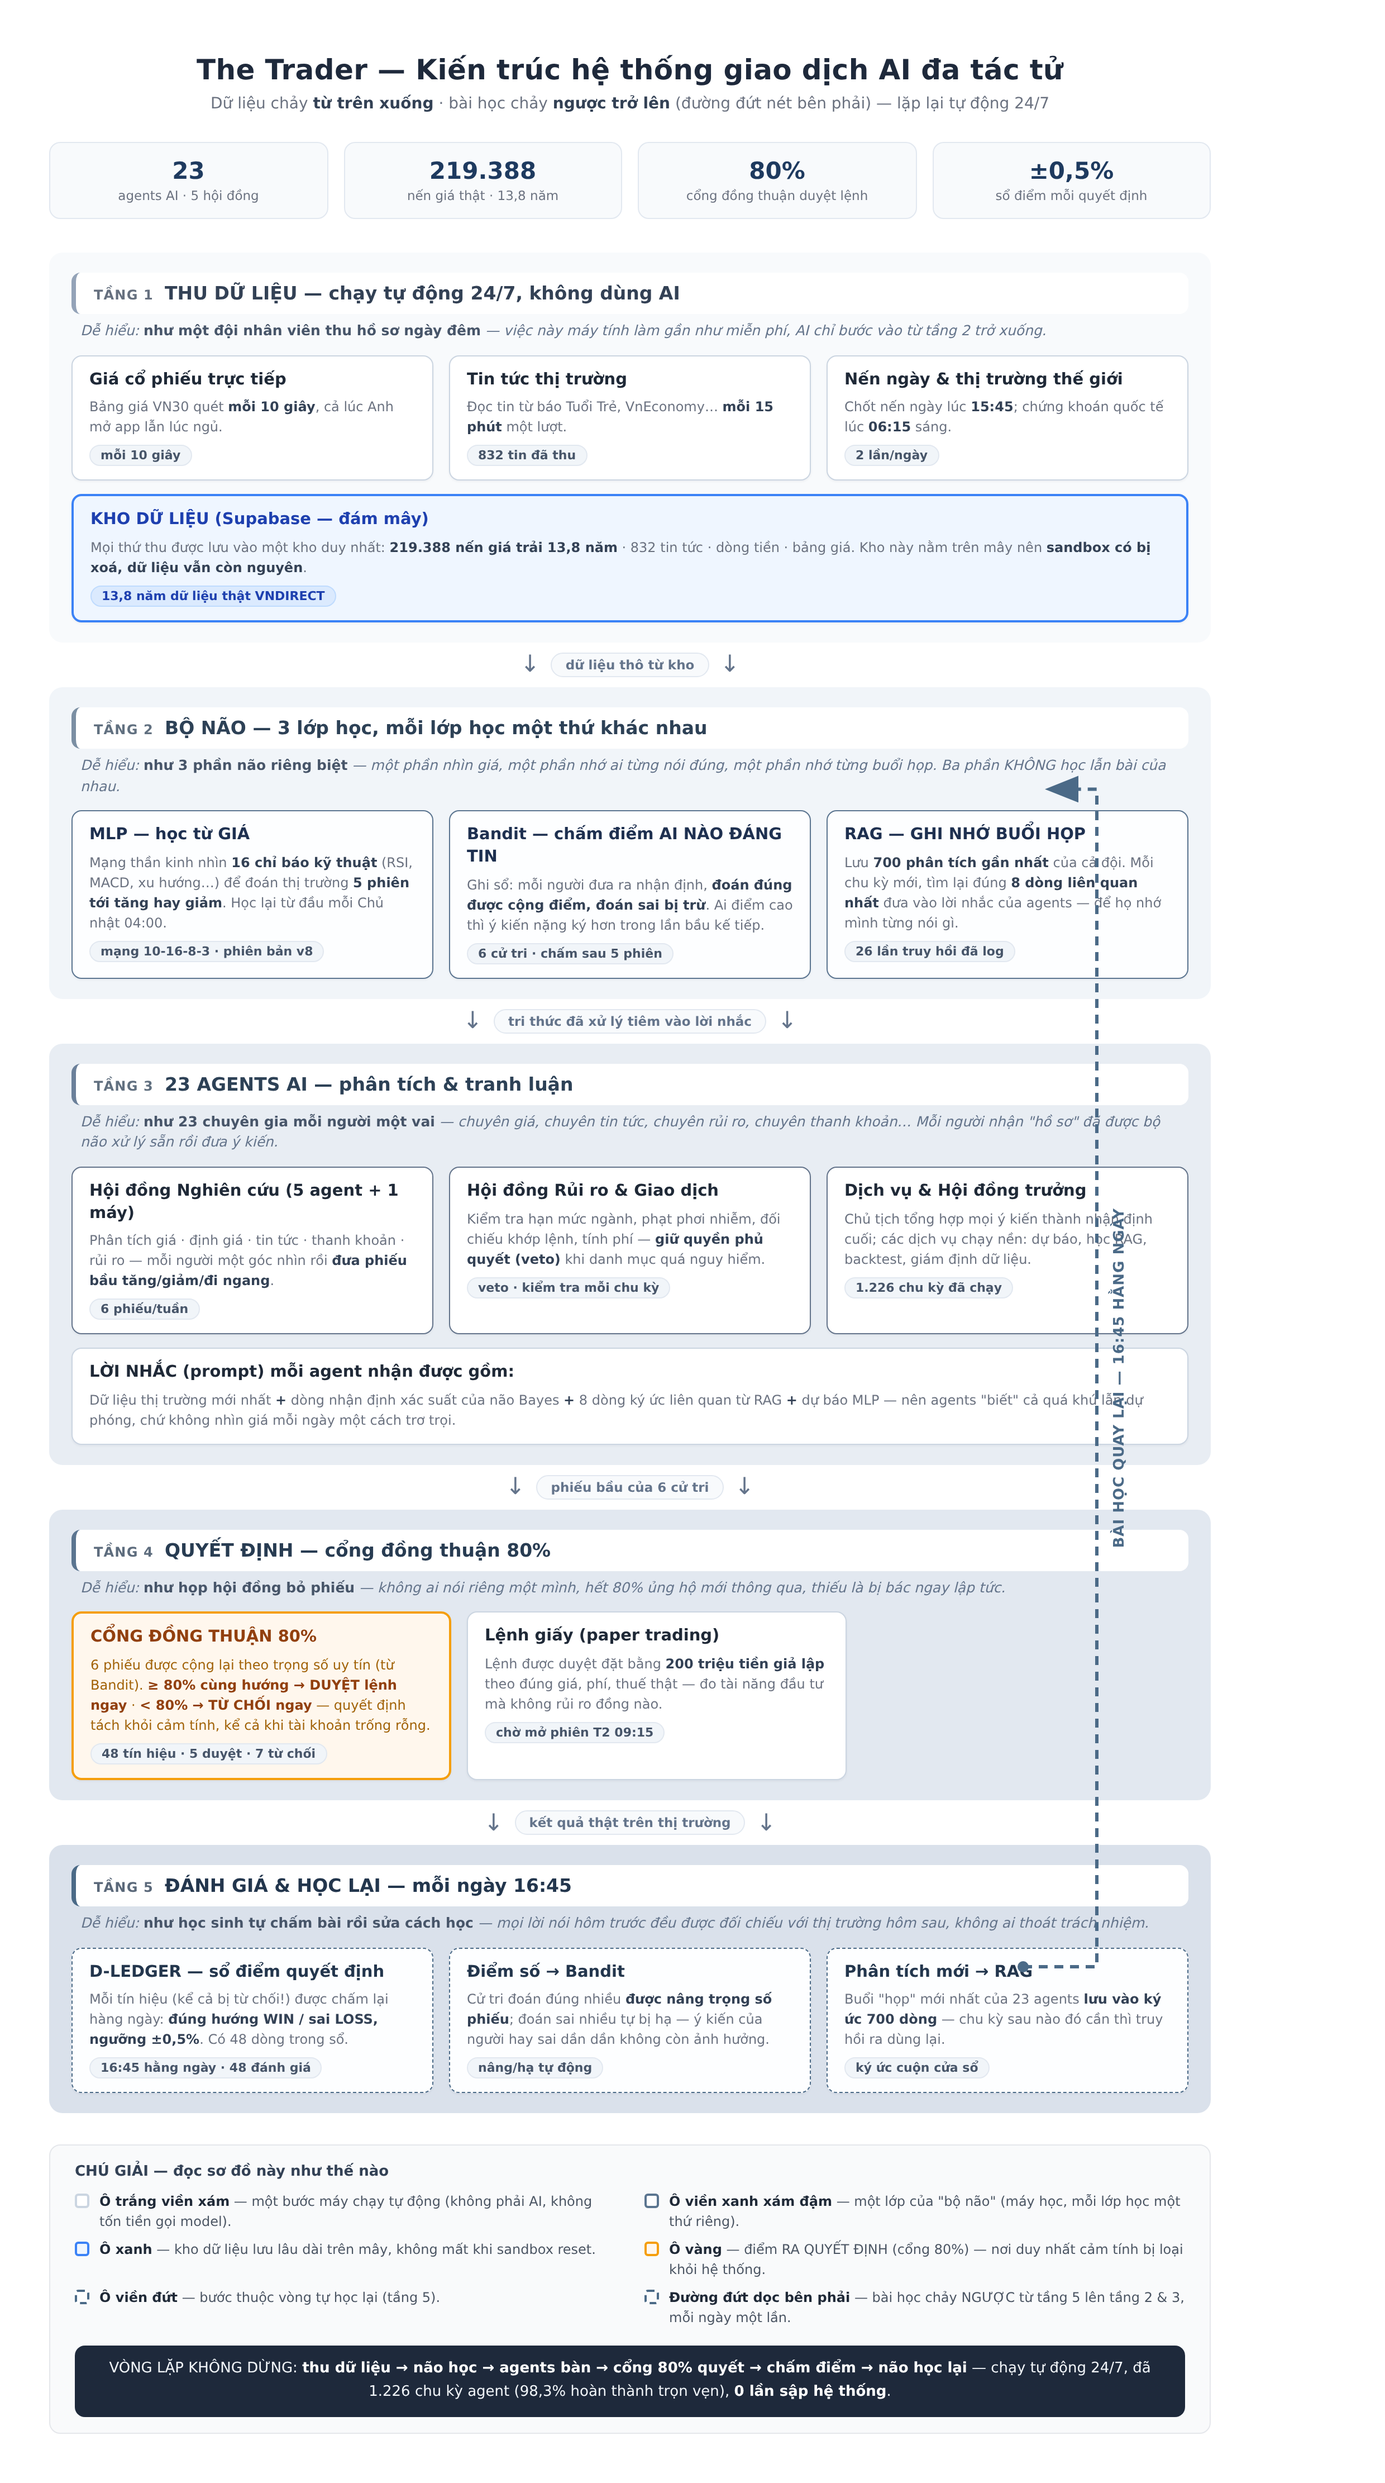
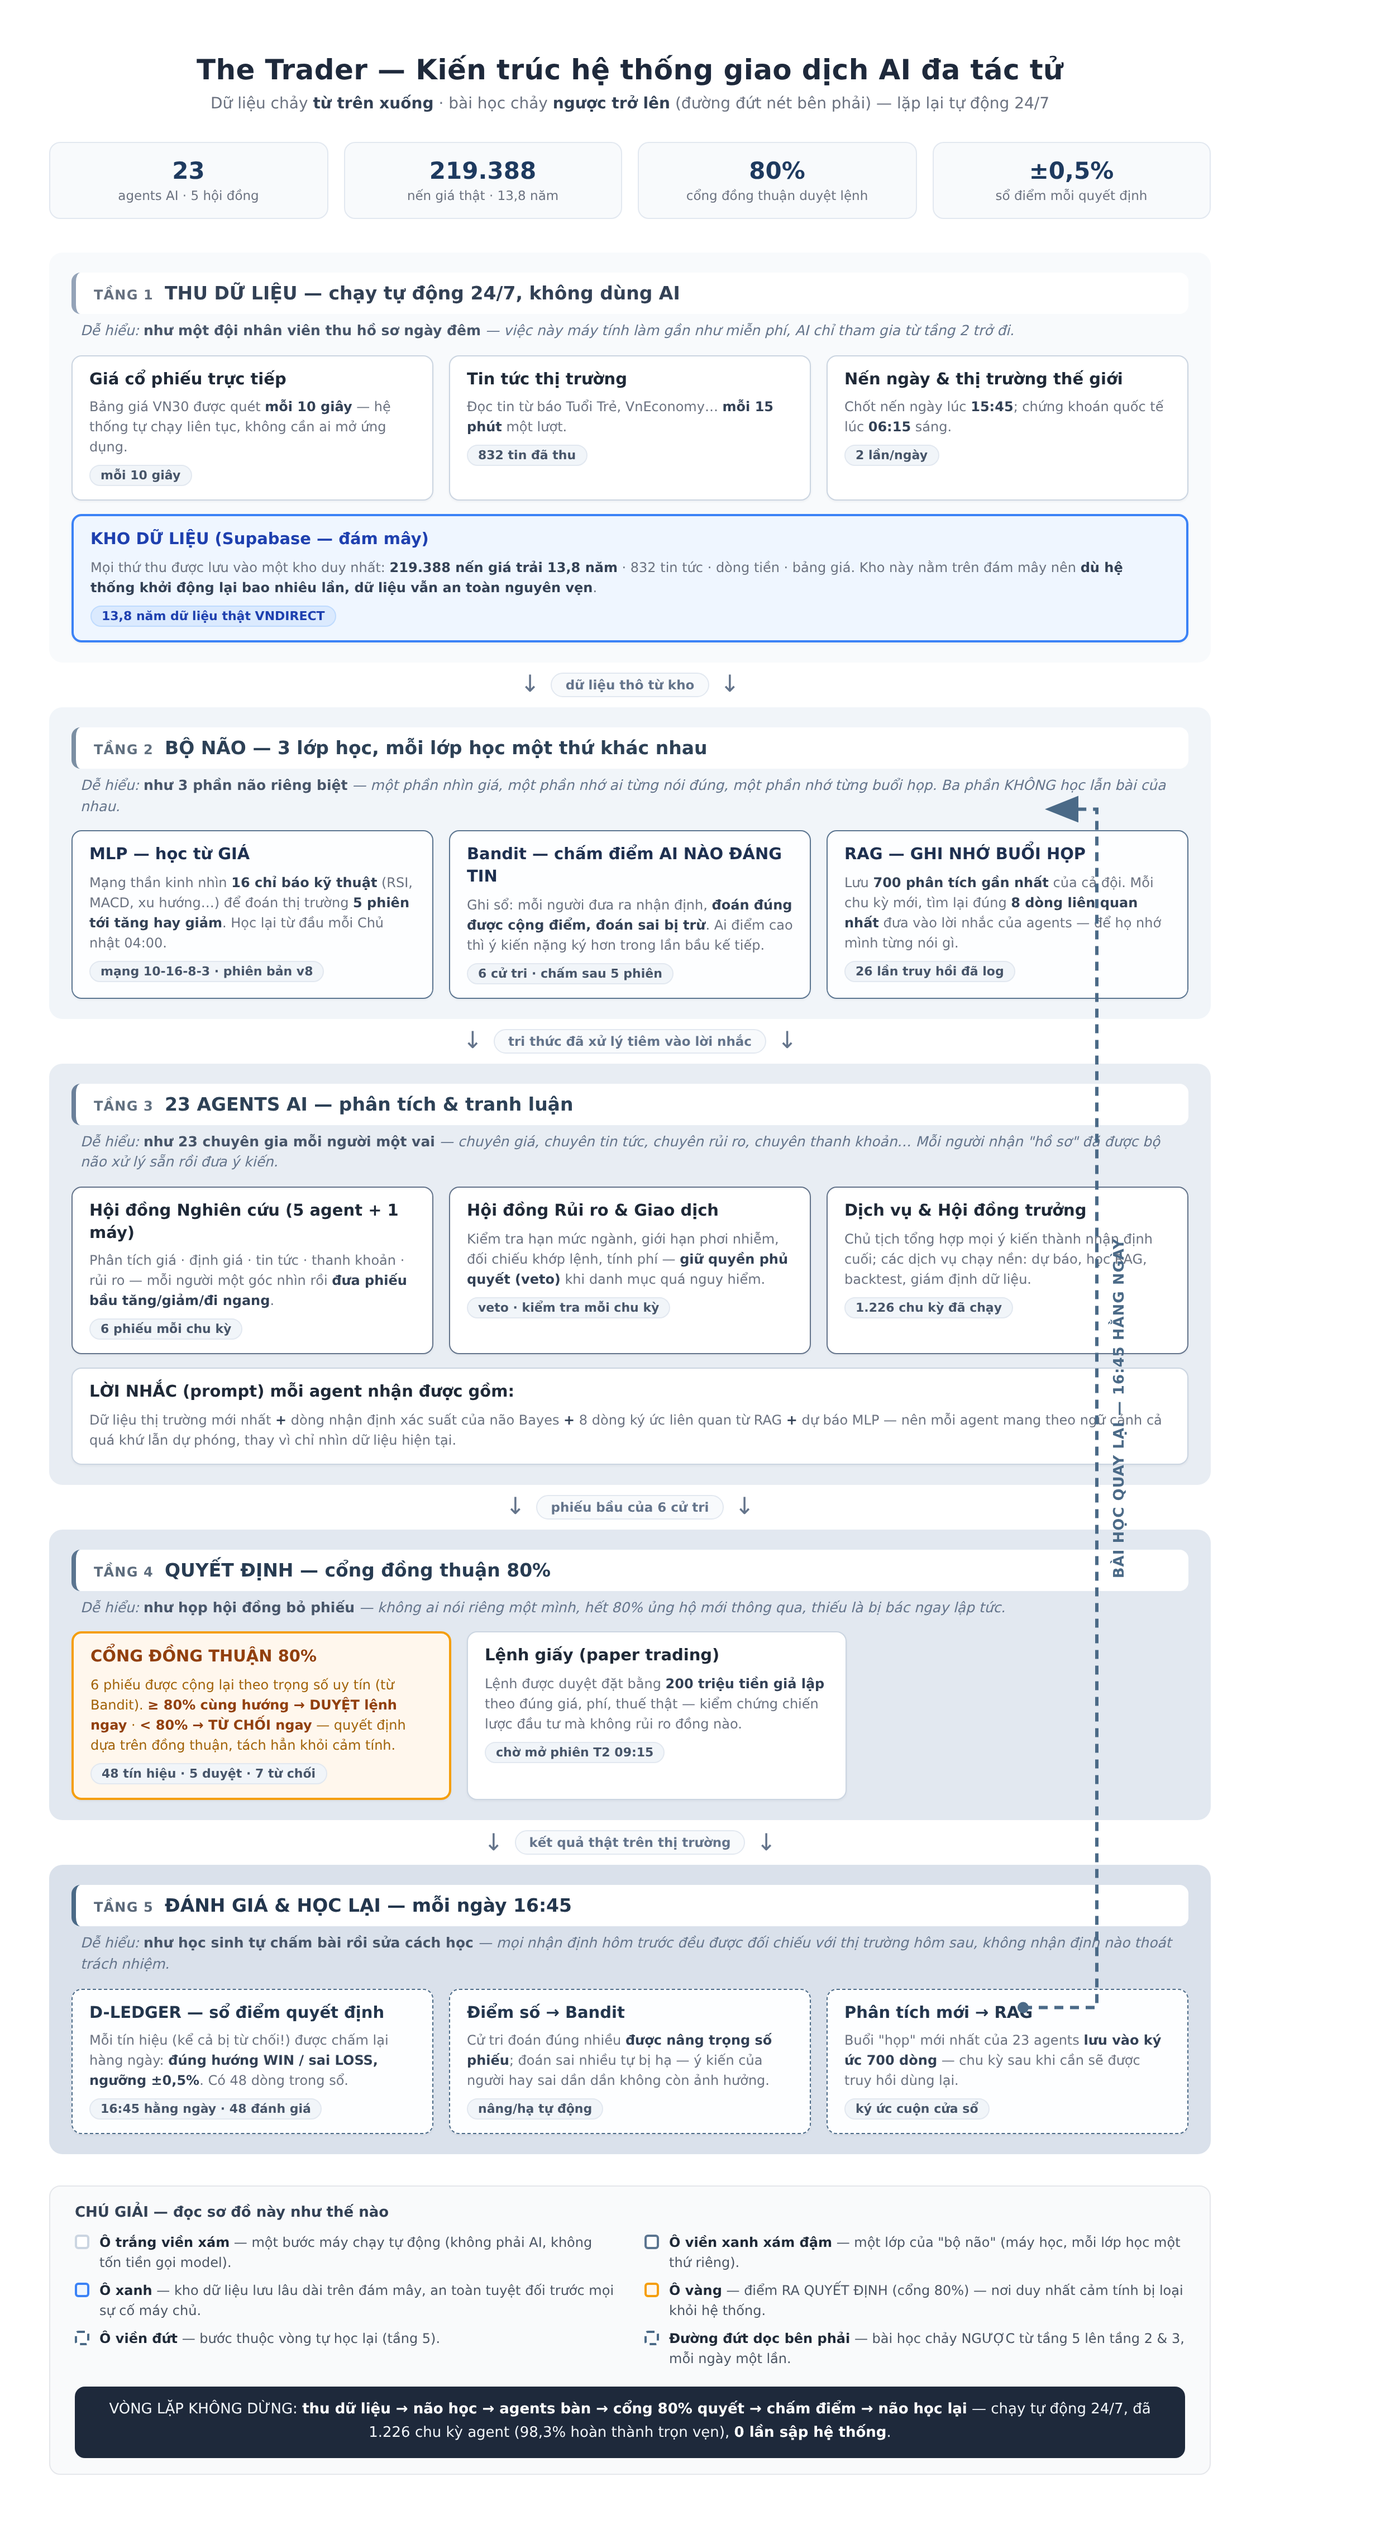
123: SƠ ĐỒ KIẾN TRÚC — CHUẨN HOÁ VĂN PHONG TRUNG LẬP CHO CV/PORTFOLIO — rà 10 chỗ giọng nói chuyện riêng → ngôi thứ ba mô tả công trình: bỏ 'Anh mở app/lúc ngủ' → 'hệ thống tự chạy liên tục' · 'sandbox bị xoá' → 'hệ thống khởi động lại bao nhiêu lần dữ liệu vẫn nguyên' · bỏ chi tiết nội bộ 'tài khoả

diff --git a/docs/diagrams/the-trader-architecture-vi.html b/docs/diagrams/the-trader-architecture-vi.html
@@ -182,11 +182,11 @@
     <!-- ═══════════ PHASE 1 — THU DỮ LIỆU ═══════════ -->
     <div class="phase-group phase-1" data-phase="1">
       <div class="phase-title"><span class="phase-no">TẦNG 1</span> THU DỮ LIỆU — chạy tự động 24/7, không dùng AI</div>
-      <div class="phase-plain">Dễ hiểu: <b>như một đội nhân viên thu hồ sơ ngày đêm</b> — việc này máy tính làm gần như miễn phí, AI chỉ bước vào từ tầng 2 trở xuống.</div>
+      <div class="phase-plain">Dễ hiểu: <b>như một đội nhân viên thu hồ sơ ngày đêm</b> — việc này máy tính làm gần như miễn phí, AI chỉ tham gia từ tầng 2 trở đi.</div>
       <div class="node-row">
         <div class="d-node">
           <div class="n-title">Giá cổ phiếu trực tiếp</div>
-          <div class="n-desc">Bảng giá VN30 quét <b>mỗi 10 giây</b>, cả lúc Anh mở app lẫn lúc ngủ.</div>
+          <div class="n-desc">Bảng giá VN30 được quét <b>mỗi 10 giây</b> — hệ thống tự chạy liên tục, không cần ai mở ứng dụng.</div>
           <div class="n-chip">mỗi 10 giây</div>
         </div>
         <div class="d-node">
@@ -203,7 +203,7 @@
       <div class="node-row">
         <div class="d-node store wide">
           <div class="n-title">KHO DỮ LIỆU (Supabase — đám mây)</div>
-          <div class="n-desc">Mọi thứ thu được lưu vào một kho duy nhất: <b>219.388 nến giá trải 13,8 năm</b> · 832 tin tức · dòng tiền · bảng giá. Kho này nằm trên mây nên <b>sandbox có bị xoá, dữ liệu vẫn còn nguyên</b>.</div>
+          <div class="n-desc">Mọi thứ thu được lưu vào một kho duy nhất: <b>219.388 nến giá trải 13,8 năm</b> · 832 tin tức · dòng tiền · bảng giá. Kho này nằm trên đám mây nên <b>dù hệ thống khởi động lại bao nhiêu lần, dữ liệu vẫn an toàn nguyên vẹn</b>.</div>
           <div class="n-chip">13,8 năm dữ liệu thật VNDIRECT</div>
         </div>
       </div>
@@ -244,11 +244,11 @@
         <div class="d-node agents">
           <div class="n-title">Hội đồng Nghiên cứu (5 agent + 1 máy)</div>
           <div class="n-desc">Phân tích giá · định giá · tin tức · thanh khoản · rủi ro — mỗi người một góc nhìn rồi <b>đưa phiếu bầu tăng/giảm/đi ngang</b>.</div>
-          <div class="n-chip">6 phiếu/tuần</div>
+          <div class="n-chip">6 phiếu mỗi chu kỳ</div>
         </div>
         <div class="d-node agents">
           <div class="n-title">Hội đồng Rủi ro &amp; Giao dịch</div>
-          <div class="n-desc">Kiểm tra hạn mức ngành, phạt phơi nhiễm, đối chiếu khớp lệnh, tính phí — <b>giữ quyền phủ quyết (veto)</b> khi danh mục quá nguy hiểm.</div>
+          <div class="n-desc">Kiểm tra hạn mức ngành, giới hạn phơi nhiễm, đối chiếu khớp lệnh, tính phí — <b>giữ quyền phủ quyết (veto)</b> khi danh mục quá nguy hiểm.</div>
           <div class="n-chip">veto · kiểm tra mỗi chu kỳ</div>
         </div>
         <div class="d-node agents">
@@ -260,7 +260,7 @@
       <div class="node-row">
         <div class="d-node wide">
           <div class="n-title">LỜI NHẮC (prompt) mỗi agent nhận được gồm:</div>
-          <div class="n-desc">Dữ liệu thị trường mới nhất <b>+</b> dòng nhận định xác suất của não Bayes <b>+</b> 8 dòng ký ức liên quan từ RAG <b>+</b> dự báo MLP — nên agents "biết" cả quá khứ lẫn dự phóng, chứ không nhìn giá mỗi ngày một cách trơ trọi.</div>
+          <div class="n-desc">Dữ liệu thị trường mới nhất <b>+</b> dòng nhận định xác suất của não Bayes <b>+</b> 8 dòng ký ức liên quan từ RAG <b>+</b> dự báo MLP — nên mỗi agent mang theo ngữ cảnh cả quá khứ lẫn dự phóng, thay vì chỉ nhìn dữ liệu hiện tại.</div>
         </div>
       </div>
     </div>
@@ -274,12 +274,12 @@
       <div class="node-row">
         <div class="d-node gate">
           <div class="n-title">CỔNG ĐỒNG THUẬN 80%</div>
-          <div class="n-desc">6 phiếu được cộng lại theo trọng số uy tín (từ Bandit). <b>≥ 80% cùng hướng → DUYỆT lệnh ngay</b> · <b>&lt; 80% → TỪ CHỐI ngay</b> — quyết định tách khỏi cảm tính, kể cả khi tài khoản trống rỗng.</div>
+          <div class="n-desc">6 phiếu được cộng lại theo trọng số uy tín (từ Bandit). <b>≥ 80% cùng hướng → DUYỆT lệnh ngay</b> · <b>&lt; 80% → TỪ CHỐI ngay</b> — quyết định dựa trên đồng thuận, tách hẳn khỏi cảm tính.</div>
           <div class="n-chip">48 tín hiệu · 5 duyệt · 7 từ chối</div>
         </div>
         <div class="d-node">
           <div class="n-title">Lệnh giấy (paper trading)</div>
-          <div class="n-desc">Lệnh được duyệt đặt bằng <b>200 triệu tiền giả lập</b> theo đúng giá, phí, thuế thật — đo tài năng đầu tư mà không rủi ro đồng nào.</div>
+          <div class="n-desc">Lệnh được duyệt đặt bằng <b>200 triệu tiền giả lập</b> theo đúng giá, phí, thuế thật — kiểm chứng chiến lược đầu tư mà không rủi ro đồng nào.</div>
           <div class="n-chip">chờ mở phiên T2 09:15</div>
         </div>
       </div>
@@ -290,7 +290,7 @@
     <!-- ═══════════ PHASE 5 — ĐÁNH GIÁ & HỌC LẠI ═══════════ -->
     <div class="phase-group phase-5" data-phase="5">
       <div class="phase-title"><span class="phase-no">TẦNG 5</span> ĐÁNH GIÁ &amp; HỌC LẠI — mỗi ngày 16:45</div>
-      <div class="phase-plain">Dễ hiểu: <b>như học sinh tự chấm bài rồi sửa cách học</b> — mọi lời nói hôm trước đều được đối chiếu với thị trường hôm sau, không ai thoát trách nhiệm.</div>
+      <div class="phase-plain">Dễ hiểu: <b>như học sinh tự chấm bài rồi sửa cách học</b> — mọi nhận định hôm trước đều được đối chiếu với thị trường hôm sau, không nhận định nào thoát trách nhiệm.</div>
       <div class="node-row">
         <div class="d-node loop">
           <div class="n-title">D-LEDGER — sổ điểm quyết định</div>
@@ -304,7 +304,7 @@
         </div>
         <div class="d-node loop">
           <div class="n-title">Phân tích mới → RAG</div>
-          <div class="n-desc">Buổi "họp" mới nhất của 23 agents <b>lưu vào ký ức 700 dòng</b> — chu kỳ sau nào đó cần thì truy hồi ra dùng lại.</div>
+          <div class="n-desc">Buổi "họp" mới nhất của 23 agents <b>lưu vào ký ức 700 dòng</b> — chu kỳ sau khi cần sẽ được truy hồi dùng lại.</div>
           <div class="n-chip">ký ức cuộn cửa sổ</div>
         </div>
       </div>
@@ -315,7 +315,7 @@
       <div class="legend-grid">
         <div class="legend-item"><div class="legend-dot" style="border-color:#CBD5E1;background:#FFFFFF;"></div><div><b>Ô trắng viền xám</b> — một bước máy chạy tự động (không phải AI, không tốn tiền gọi model).</div></div>
         <div class="legend-item"><div class="legend-dot" style="border-color:#5B7590;background:#FDFEFF;"></div><div><b>Ô viền xanh xám đậm</b> — một lớp của "bộ não" (máy học, mỗi lớp học một thứ riêng).</div></div>
-        <div class="legend-item"><div class="legend-dot" style="border-color:#3B82F6;background:#EFF6FF;"></div><div><b>Ô xanh</b> — kho dữ liệu lưu lâu dài trên mây, không mất khi sandbox reset.</div></div>
+        <div class="legend-item"><div class="legend-dot" style="border-color:#3B82F6;background:#EFF6FF;"></div><div><b>Ô xanh</b> — kho dữ liệu lưu lâu dài trên đám mây, an toàn tuyệt đối trước mọi sự cố máy chủ.</div></div>
         <div class="legend-item"><div class="legend-dot" style="border-color:#F59E0B;background:#FFF7ED;"></div><div><b>Ô vàng</b> — điểm RA QUYẾT ĐỊNH (cổng 80%) — nơi duy nhất cảm tính bị loại khỏi hệ thống.</div></div>
         <div class="legend-item"><div class="legend-dot" style="border-color:#4B6A87;background:#FDFEFF;border-style:dashed;"></div><div><b>Ô viền đứt</b> — bước thuộc vòng tự học lại (tầng 5).</div></div>
         <div class="legend-item"><div class="legend-dot" style="border-color:#4B6A87;background:transparent;border-style:dashed;"></div><div><b>Đường đứt dọc bên phải</b> — bài học chảy NGƯỢC từ tầng 5 lên tầng 2 &amp; 3, mỗi ngày một lần.</div></div>

diff --git a/worklog.md b/worklog.md
@@ -4150,3 +4150,29 @@ Stage Summary:
 - Thiết kế theo chuẩn skill charts: Layout C phased vertical, palette blue-gray progression + amber accent duy nhất ở cổng 80% (điểm ra quyết định), mỗi tầng có ẩn dụ đời thường — đạt yêu cầu "người bình thường hiểu được"
 - Vòng phản hồi hai chiều được thể hiện bằng đường đứt dọc bên phải — đúng bản chất kiến trúc (RAG + Bandit là 2 kênh agents dạy lại não; MLP KHÔNG học từ agents — học từ giá)
 - Kế tiếp: Task 123
+
+---
+
+Task ID: 123
+Agent: main (Z.ai Code)
+Task: Rà soát lại văn phong sơ đồ kiến trúc — bỏ giọng nói chuyện riêng, chuyển sang trung lập cho tài liệu CV/portfolio phỏng vấn
+
+Work Log:
+- Rà toàn bộ text HTML sơ đồ theo yêu cầu "dòng nào viết cho anh thì chỉnh lại trung lập cho mọi người đọc" — 10 chỗ sửa:
+  (1) "cả lúc Anh mở app lẫn lúc ngủ" → "hệ thống tự chạy liên tục, không cần ai mở ứng dụng";
+  (2) "sandbox có bị xoá, dữ liệu vẫn còn nguyên" → "dù hệ thống khởi động lại bao nhiêu lần, dữ liệu vẫn an toàn nguyên vẹn";
+  (3) "AI chỉ bước vào từ tầng 2 trở xuống" → "AI chỉ tham gia từ tầng 2 trở đi";
+  (4) "agents 'biết' cả quá khứ lẫn dự phóng, chứ không nhìn giá mỗi ngày một cách trơ trọi" → "mỗi agent mang theo ngữ cảnh cả quá khứ lẫn dự phóng, thay vì chỉ nhìn dữ liệu hiện tại";
+  (5) "kể cả khi tài khoản trống rỗng" (chi tiết nội bộ F-207) → bỏ, giữ "quyết định dựa trên đồng thuận, tách hẳn khỏi cảm tính";
+  (6) "đo tài năng đầu tư" → "kiểm chứng chiến lược đầu tư";
+  (7) chip "6 phiếu/tuần" (không chính xác) → "6 phiếu mỗi chu kỳ";
+  (8) "chu kỳ sau nào đó cần thì truy hồi ra dùng lại" → "chu kỳ sau khi cần sẽ được truy hồi dùng lại";
+  (9) "mọi lời nói hôm trước… không ai thoát trách nhiệm" → "mọi nhận định… không nhận định nào thoát trách nhiệm";
+  (10) typo "phạt phơi nhiễm" → "giới hạn phơi nhiễm"
+- VLM glm-5v-turbo vòng 1: xác nhận sạch giọng cá nhân + 0 lỗi chính tả, nhưng phát hiện jargon nội bộ còn sót "sandbox reset" trong chú giải ô xanh → sửa thành "an toàn tuyệt đối trước mọi sự cố máy chủ" (Supabase/VNDIRECT/veto/backtest/prompt/paper trading giữ nguyên — thuật ngữ ngành đúng mức cho vị trí AI Engineer, dòng "Dễ hiểu" đã lo phần người thường)
+- Re-render 2x Python Playwright → PNG 2480×4444 (1.047KB) — VLM vòng 2 xác nhận đạt chuẩn tài liệu đưa nhà tuyển dụng
+
+Stage Summary:
+- Sơ đồ giờ là văn phong ngôi thứ ba trung lập, mô tả hệ thống như công trình sản phẩm — dùng được trực tiếp trong CV/portfolio NEXGEN BROS
+- Giữ nguyên các ẩn dụ đời thường (đội thu hồ sơ / 3 phần não / hội đồng bỏ phiếu / tự chấm bài) vì chúng phục vụ người đọc mọi nền tảng, không mang giọng cá nhân
+- Kế tiếp: Task 124
